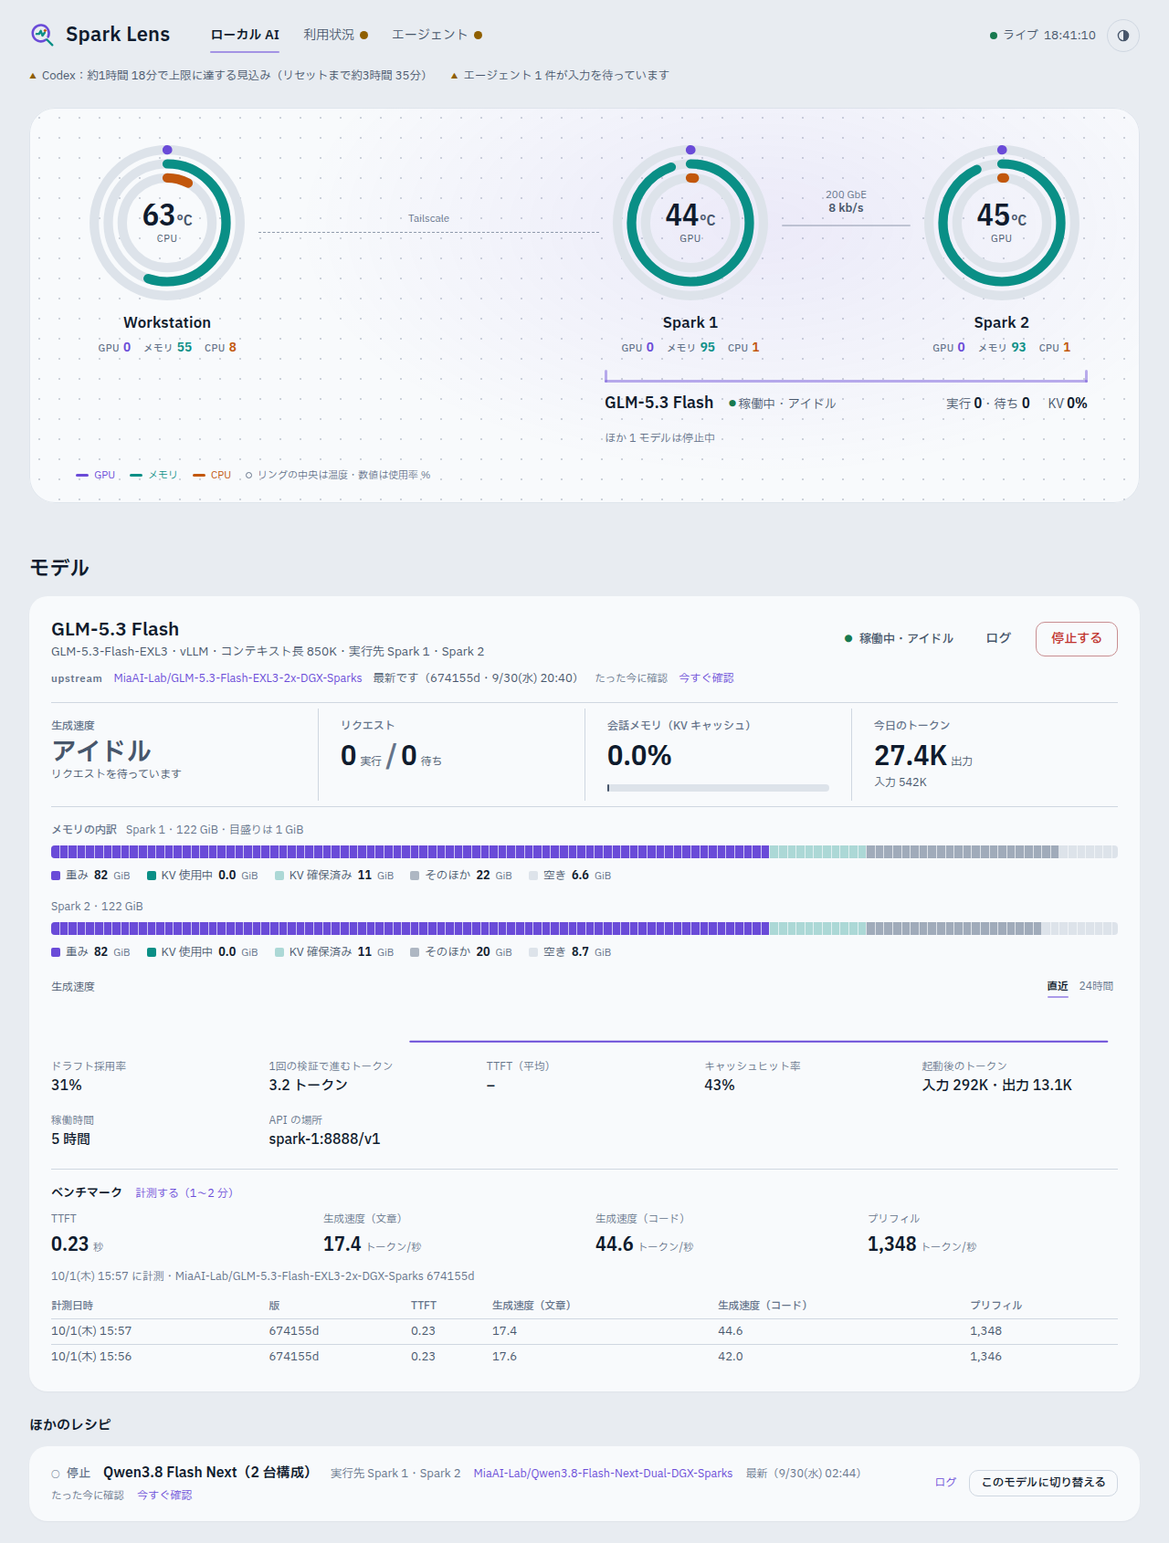
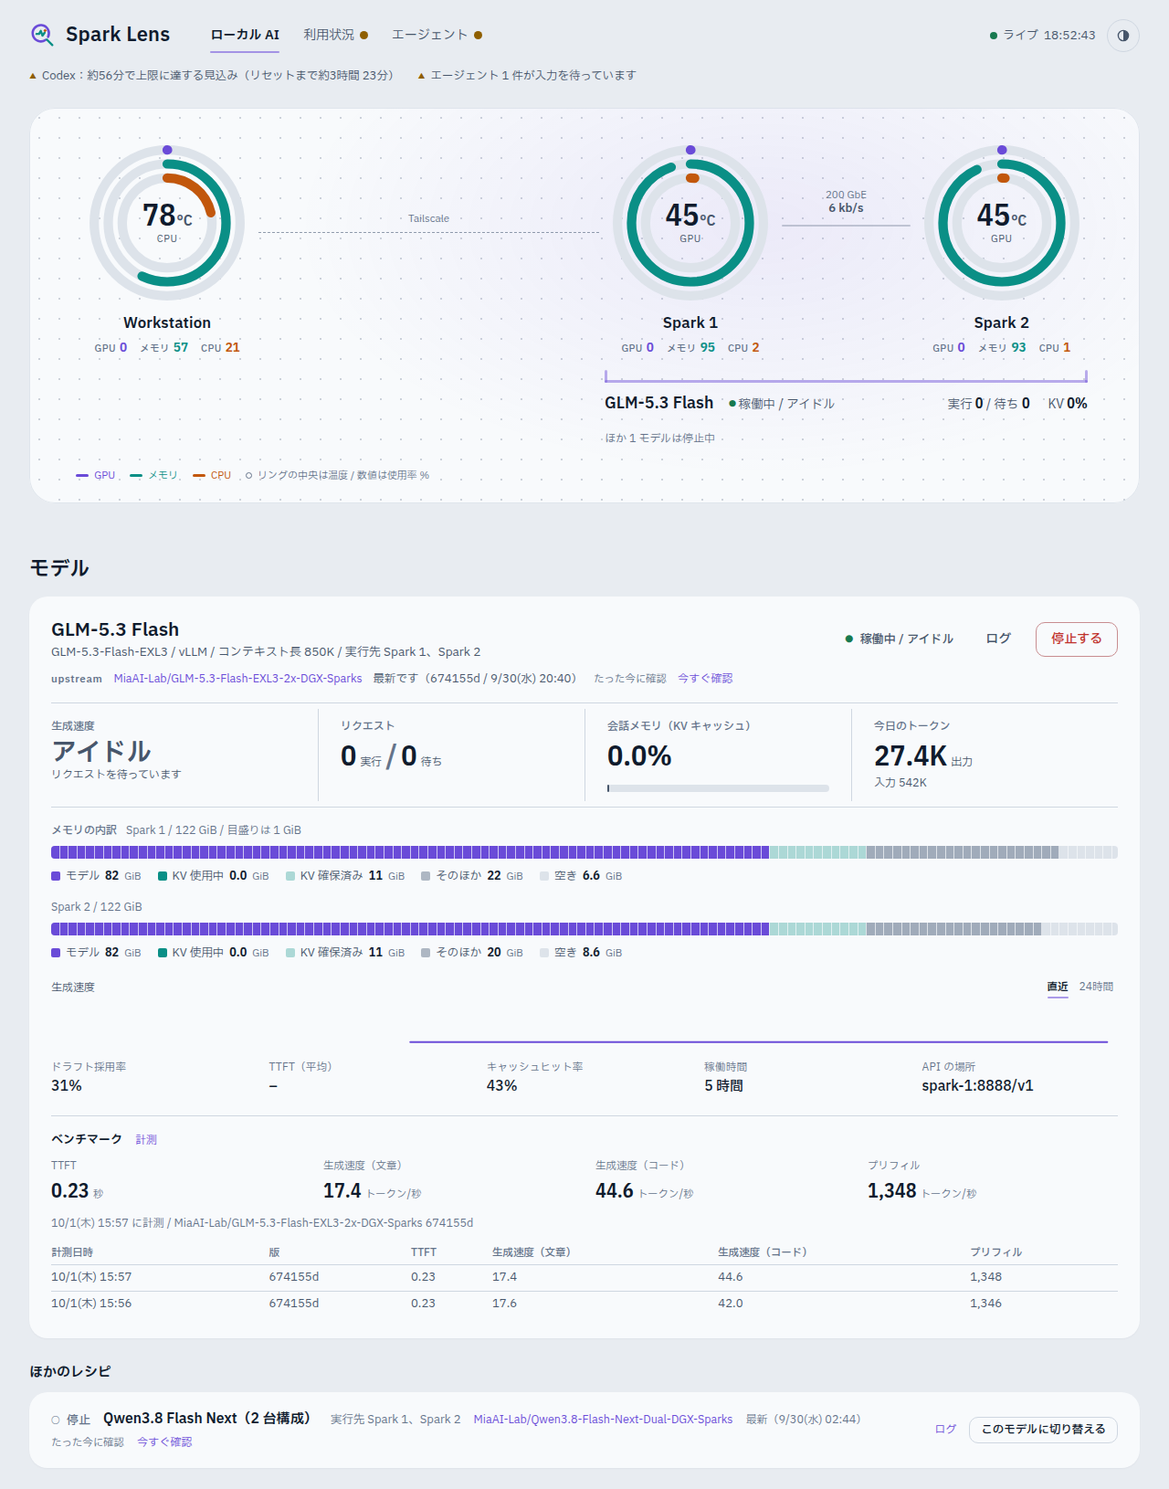
Unified wording: slashes between facts, online/offline machines, no exit codes; benchmark stop; slimmer model facts

diff --git a/server/bench.ts b/server/bench.ts
@@ -120,9 +120,11 @@ export async function runBench(
   model: string,
   apiKey: string | undefined,
   onProgress: (label: string, done: number, total: number) => void,
+  stop?: AbortSignal,
 ): Promise<{ cases: BenchCase[]; error: string | null }> {
   const cases: BenchCase[] = [];
   for (const [i, c] of CASES.entries()) {
+    if (stop?.aborted) return { cases, error: "中止しました" };
     onProgress(c.label, i, CASES.length);
     const startedAt = performance.now();
     let res: Response;
@@ -141,17 +143,17 @@ export async function runBench(
           // Measure the answer, not the thinking; servers ignore kwargs their template lacks.
           chat_template_kwargs: { enable_thinking: false },
         }),
-        signal: AbortSignal.timeout(300_000),
+        signal: stop ? AbortSignal.any([stop, AbortSignal.timeout(300_000)]) : AbortSignal.timeout(300_000),
       });
     } catch {
-      return { cases, error: `${c.label}: 接続できませんでした` };
+      return { cases, error: stop?.aborted ? "中止しました" : `${c.label}: 接続できませんでした` };
     }
     if (!res.ok || !res.body) return { cases, error: `${c.label}: HTTP ${res.status}` };
     // The connection can still drop, or the timeout fire, while the answer streams.
     try {
       cases.push(summarise(c, await timeStream(res.body, startedAt)));
     } catch {
-      return { cases, error: `${c.label}: 応答の途中で接続が切れました` };
+      return { cases, error: stop?.aborted ? "中止しました" : `${c.label}: 応答の途中で接続が切れました` };
     }
   }
   onProgress("完了", CASES.length, CASES.length);
@@ -165,6 +167,7 @@ export function newRun(llmId: string, model: string, commit: string | null, repo
 /** One benchmark at a time per model; results go to the store. */
 export class BenchRunner {
   private readonly state = new Map<string, { running: boolean; stage: string | null; done: number; total: number }>();
+  private readonly controllers = new Map<string, AbortController>();
   private readonly store: { benchRuns(): BenchRun[]; addBenchRun(run: BenchRun): void };
 
   /** Replaceable for tests. */
@@ -193,19 +196,37 @@ export class BenchRunner {
   ): { ok: boolean; message: string } {
     if (this.state.get(llmId)?.running) return { ok: false, message: "ベンチマークを実行中です" };
     const run = newRun(llmId, target.model, target.commit, target.repo);
+    const controller = new AbortController();
+    this.controllers.set(llmId, controller);
     this.state.set(llmId, { running: true, stage: "準備しています", done: 0, total: CASES.length });
     changed();
-    void (this.runImpl ?? runBench)(target.baseUrl, target.model, target.apiKey, (stage, done, total) => {
-      this.state.set(llmId, { running: true, stage, done, total });
-      changed();
-    })
+    void (this.runImpl ?? runBench)(
+      target.baseUrl,
+      target.model,
+      target.apiKey,
+      (stage, done, total) => {
+        this.state.set(llmId, { running: true, stage, done, total });
+        changed();
+      },
+      controller.signal,
+    )
       .catch((err: unknown) => ({ cases: [] as BenchCase[], error: `計測に失敗しました（${err instanceof Error ? err.message : String(err)}）` }))
-      .then(({ cases, error }) => this.store.addBenchRun({ ...run, cases, error }))
+      // A run the owner stopped is not a measurement; keep it out of the history.
+      .then(({ cases, error }) => (controller.signal.aborted ? undefined : this.store.addBenchRun({ ...run, cases, error })))
       .catch(() => {})
       .finally(() => {
+        this.controllers.delete(llmId);
         this.state.set(llmId, { running: false, stage: null, done: 0, total: CASES.length });
         changed();
       });
-    return { ok: true, message: "ベンチマークを開始しました（1〜2 分）" };
+    return { ok: true, message: "ベンチマークを開始しました" };
+  }
+
+  /** Abandon a running benchmark; the request in flight is cancelled. */
+  stop(llmId: string): { ok: boolean; message: string } {
+    const controller = this.controllers.get(llmId);
+    if (!controller) return { ok: false, message: "実行中のベンチマークはありません" };
+    controller.abort();
+    return { ok: true, message: "ベンチマークを中止しました" };
   }
 }

diff --git a/web/src/components/BenchPanel.tsx b/web/src/components/BenchPanel.tsx
@@ -38,9 +38,9 @@ export function BenchPanel({ llmId, state }: { llmId: string; state: BenchState 
   const previousVersion =
     latest?.commit ? runs.find((r) => !r.error && r.commit !== null && r.commit !== latest.commit) : undefined;
 
-  const start = async () => {
+  const send = async (path: "bench" | "bench/stop") => {
     try {
-      const res = await fetch(`/api/llms/${llmId}/bench`, { method: "POST", headers: { "X-Spark-Lens": "1" } });
+      const res = await fetch(`/api/llms/${llmId}/${path}`, { method: "POST", headers: { "X-Spark-Lens": "1" } });
       setNotice(((await res.json()) as { message?: string }).message ?? null);
     } catch {
       setNotice("サーバーに接続できませんでした");
@@ -52,12 +52,17 @@ export function BenchPanel({ llmId, state }: { llmId: string; state: BenchState 
       <div className="bench__head">
         <h4>ベンチマーク</h4>
         {state?.running ? (
-          <span className="bench__running">
-            {state.stage}を計測中（{Math.min(state.done + 1, state.total)}/{state.total}）
-          </span>
+          <>
+            <span className="bench__running">
+              {state.stage}を計測中（{Math.min(state.done + 1, state.total)}/{state.total}）
+            </span>
+            <button type="button" className="link-button" onClick={() => void send("bench/stop")}>
+              停止
+            </button>
+          </>
         ) : (
-          <button type="button" className="link-button" onClick={() => void start()}>
-            計測する（1〜2 分）
+          <button type="button" className="link-button" onClick={() => void send("bench")}>
+            計測
           </button>
         )}
       </div>
@@ -81,10 +86,10 @@ export function BenchPanel({ llmId, state }: { llmId: string; state: BenchState 
             })}
           </dl>
           <p className="bench__meta">
-            {shortDate(latest.at)} に計測・{latest.repo ? `${latest.repo} ` : ""}
+            {shortDate(latest.at)} に計測 / {latest.repo ? `${latest.repo} ` : ""}
             {latest.commit ?? "版不明"}
-            {previousVersion ? `・比較は前の版 ${previousVersion.commit ?? ""}（${shortDate(previousVersion.at)}）` : ""}
-            {latest.error ? `・${latest.error}` : ""}
+            {previousVersion ? ` / 比較は前の版 ${previousVersion.commit ?? ""}（${shortDate(previousVersion.at)}）` : ""}
+            {latest.error ? ` / ${latest.error}` : ""}
           </p>
           {runs.length > 1 && (
             <table className="bench__history">

diff --git a/server/recipes.ts b/server/recipes.ts
@@ -328,7 +328,7 @@ export class RecipeManager {
         Object.assign(a, {
           finishedAt: Date.now(),
           ok: code === 0,
-          message: code === 0 ? "起動処理が完了しました" : `起動に失敗しました（終了コード ${code ?? "不明"}）。起動ログを確認してください`,
+          message: code === 0 ? "起動処理が完了しました" : "起動に失敗しました。起動ログを確認してください",
         });
       }),
     );
@@ -388,12 +388,12 @@ export class RecipeManager {
     if (!ok && current && current.finishedAt === null && current.kind === "start") {
       // The launcher may still be running; keep following it rather than freeing its machines.
       this.actions.set(id, current);
-      return { ok: false, message: res.timedOut ? "停止処理がタイムアウトしました" : `停止に失敗しました（終了コード ${res.code}）` };
+      return { ok: false, message: res.timedOut ? "停止処理がタイムアウトしました" : "停止に失敗しました。起動ログを確認してください" };
     }
     Object.assign(action, {
       finishedAt: Date.now(),
       ok,
-      message: ok ? "停止しました" : res.timedOut ? "停止処理がタイムアウトしました" : `停止に失敗しました（終了コード ${res.code}）`,
+      message: ok ? "停止しました" : res.timedOut ? "停止処理がタイムアウトしました" : "停止に失敗しました。起動ログを確認してください",
     });
     return { ok, message: action.message! };
   }
@@ -524,6 +524,6 @@ export class RecipeManager {
     const res = await this.exec(this.hosts.get(r.host)!, script, 20_000);
     if (res.timedOut) return { ok: false, text: "ログの取得がタイムアウトしました" };
     const text = cleanLog(res.stdout.slice(-MAX_LOG_BYTES));
-    return { ok: res.code === 0, text: text || (res.code === 0 ? "（出力なし）" : `取得に失敗しました（終了コード ${res.code}）`) };
+    return { ok: res.code === 0, text: text || (res.code === 0 ? "（出力なし）" : "ログを取得できませんでした") };
   }
 }

diff --git a/web/src/components/LlmPanel.tsx b/web/src/components/LlmPanel.tsx
@@ -42,7 +42,7 @@ export function LlmPanel({
   const running = (llm.requestsRunning ?? 0) > 0;
   const kv = llm.kvCacheUsage === null ? null : llm.kvCacheUsage * 100;
   const spec = llm.spec;
-  const where = [...new Set(recipes.flatMap((r) => r.hostLabels ?? [r.hostLabel]))].join("・");
+  const where = [...new Set(recipes.flatMap((r) => r.hostLabels ?? [r.hostLabel]))].join("、");
   const sub = [
     llm.models[0],
     llm.engine,
@@ -55,7 +55,7 @@ export function LlmPanel({
       <header className="model__head">
         <div className="model__title">
           <h3 className="card__title">{llm.label}</h3>
-          <p className="card__sub">{sub.length > 0 ? sub.join("・") : "モデル名は起動後に表示されます"}</p>
+          <p className="card__sub">{sub.length > 0 ? sub.join(" / ") : "モデル名は起動後に表示されます"}</p>
         </div>
         <StatusPill tone={st.tone}>{st.text}</StatusPill>
         {recipes.map((r) => (
@@ -142,14 +142,9 @@ export function LlmPanel({
 
           <dl className="factline">
             {spec && <Fact label="ドラフト採用率" value={spec.acceptRate === null ? "–" : pct(spec.acceptRate * 100)} />}
-            {spec && <Fact label="1回の検証で進むトークン" value={spec.meanLength === null ? "–" : `${spec.meanLength.toFixed(1)} トークン`} />}
             {spec && running && <Fact label="ドラフト / 採用" value={`${rate(spec.draftTokensPerSec)} / ${rate(spec.acceptedTokensPerSec)} トークン/秒`} />}
             <Fact label="TTFT（平均）" value={llm.ttftSec === null ? "–" : `${llm.ttftSec.toFixed(2)} 秒`} />
             <Fact label="キャッシュヒット率" value={llm.prefixCacheHitRate === null ? "–" : pct(llm.prefixCacheHitRate * 100)} />
-            <Fact
-              label="起動後のトークン"
-              value={llm.tokensTotal ? `入力 ${count(llm.tokensTotal.prompt)}・出力 ${count(llm.tokensTotal.generation)}` : "–"}
-            />
             {/* Docker knows when the model started; the dashboard only knows since it last restarted. */}
             <Fact
               label="稼働時間"

diff --git a/server/http.ts b/server/http.ts
@@ -66,6 +66,8 @@ export interface HttpOptions {
   recipes?: RecipeActions;
   /** Start a benchmark of one local model. */
   bench?: (llmId: string) => Promise<{ ok: boolean; message: string }>;
+  /** Stop a running benchmark. */
+  benchStop?: (llmId: string) => { ok: boolean; message: string };
   /** Minute averages for one series over the last day. */
   history?: (key: string) => { t: number; v: number }[];
   /** Called after a state-changing request so viewers see it at once. */
@@ -130,13 +132,17 @@ export class HttpServer {
       void this.recipe(req, res, recipe[1]!, recipe[2] as RecipeOp);
       return;
     }
-    const bench = /^\/api\/llms\/([a-z0-9][a-z0-9-]*)\/bench$/.exec(path);
+    const bench = /^\/api\/llms\/([a-z0-9][a-z0-9-]*)\/bench(\/stop)?$/.exec(path);
     if (bench) {
       const json = (status: number, body: unknown) =>
         void res.writeHead(status, { "Content-Type": "application/json; charset=utf-8", "Cache-Control": "no-store" }).end(JSON.stringify(body));
       if (req.method !== "POST") return void res.writeHead(405, { Allow: "POST" }).end();
       if (req.headers[ACTION_HEADER] !== "1") return json(403, { ok: false, message: "この操作はダッシュボードの画面から行ってください" });
       if (!this.opts.bench) return json(404, { ok: false, message: "ベンチマークは使えません" });
+      if (bench[2]) {
+        const stopped = this.opts.benchStop?.(bench[1]!) ?? { ok: false, message: "ベンチマークは使えません" };
+        return json(stopped.ok ? 200 : 409, stopped);
+      }
       const run = this.opts.bench;
       void run(bench[1]!).then(
         (result) => json(result.ok ? 202 : 409, result),

diff --git a/web/src/components/MachineCard.tsx b/web/src/components/MachineCard.tsx
@@ -69,7 +69,7 @@ export function MachineCard({ host, now }: { host: HostSnapshot; now: number }) 
           <h3 className="card__title">{host.label}</h3>
           <p className="card__sub">
             {KIND_LABEL[host.kind]}
-            {host.hostname && host.hostname !== host.label ? `・${host.hostname}` : ""}
+            {host.hostname && host.hostname !== host.label ? ` / ${host.hostname}` : ""}
           </p>
         </div>
         <StatusPill tone={st.tone}>{st.text}</StatusPill>
@@ -187,7 +187,7 @@ export function MachineCard({ host, now }: { host: HostSnapshot; now: number }) 
                 <span>{c.name}</span>
                 {/* Running or not is what matters here; the details stay in the tooltip. */}
                 <span title={dockerStatus(c.status)}>
-                  {c.state === "running" ? (/unhealthy/i.test(c.status) ? "稼働中（異常）" : "稼働中") : "停止"}
+                  {c.state === "running" ? (/unhealthy/i.test(c.status) ? "稼働中（異常）" : "稼働中") : "停止中"}
                 </span>
               </li>
             ))}
@@ -196,7 +196,10 @@ export function MachineCard({ host, now }: { host: HostSnapshot; now: number }) 
       )}
 
       <p className="machine__foot">
-        {[host.os, host.cpuModel, host.latencyMs !== null ? `監視の応答 ${host.latencyMs} ms` : null].filter(Boolean).join("・")}
+        {host.os && <span>{host.os}</span>}
+        {host.cpuModel && <span>{host.cpuModel}</span>}
+        {/* Round trip of the dashboard's last check of this machine. */}
+        {host.latencyMs !== null && <span>遅延 {host.latencyMs} ms</span>}
       </p>
     </article>
   );

diff --git a/web/src/status.ts b/web/src/status.ts
@@ -12,19 +12,19 @@ export interface Status {
 const LIMITS = { gpu: { warn: 80, critical: 90 }, cpu: { warn: 90, critical: 98 } };
 
 export function hostStatus(h: HostSnapshot): Status {
-  if (!h.online) return { tone: "critical", text: "応答なし" };
+  if (!h.online) return { tone: "critical", text: "オフライン" };
   const gpu = h.gpu?.tempC ?? 0;
   const cpu = h.cpuTempC ?? 0;
   if (gpu >= LIMITS.gpu.critical || cpu >= LIMITS.cpu.critical) return { tone: "critical", text: "高温" };
   if (gpu >= LIMITS.gpu.warn || cpu >= LIMITS.cpu.warn) return { tone: "warn", text: "温度高め" };
-  return { tone: "good", text: "稼働中" };
+  return { tone: "good", text: "オンライン" };
 }
 
-/** Process state and load, in the words used everywhere: 停止中 / 起動中 / 稼働中・アイドル / 稼働中・推論中. */
+/** Process state and load, in the words used everywhere: 停止中 / 起動中 / 稼働中 / アイドル, 稼働中 / 推論中. */
 export function llmStatus(l: LlmSnapshot): Status {
   if (l.state === "down") return { tone: "quiet", text: "停止中" };
   if (l.state === "starting") return { tone: "warn", text: "起動中" };
-  return (l.requestsRunning ?? 0) > 0 ? { tone: "busy", text: "稼働中・推論中" } : { tone: "good", text: "稼働中・アイドル" };
+  return (l.requestsRunning ?? 0) > 0 ? { tone: "busy", text: "稼働中 / 推論中" } : { tone: "good", text: "稼働中 / アイドル" };
 }
 
 export interface Alert {

diff --git a/web/src/components/LabMap.tsx b/web/src/components/LabMap.tsx
@@ -115,13 +115,13 @@ function Band({ llm, now, progress }: { llm: LlmSnapshot; now: number; progress:
         {kind === "idle" && llm.lastActiveAt !== null && <span>最後の推論 {ago(llm.lastActiveAt, now)}</span>}
         {kind === "starting" && progress && (
           <span>
-            <strong>{progress.pct}%</strong>・{progress.stage}
+            <strong>{progress.pct}%</strong> / {progress.stage}
           </span>
         )}
         {(kind === "busy" || kind === "idle") && (
           <>
             <span>
-              実行 <strong>{llm.requestsRunning ?? "–"}</strong>・待ち <strong>{llm.requestsWaiting ?? "–"}</strong>
+              実行 <strong>{llm.requestsRunning ?? "–"}</strong> / 待ち <strong>{llm.requestsWaiting ?? "–"}</strong>
             </span>
             <span>
               KV <strong>{llm.kvCacheUsage === null ? "–" : pct(llm.kvCacheUsage * 100)}</strong>
@@ -189,7 +189,7 @@ export function LabMap({ snapshot, now }: { snapshot: Snapshot; now: number }) {
         <span className="legend-key legend-key--1">GPU</span>
         <span className="legend-key legend-key--2">メモリ</span>
         <span className="legend-key legend-key--3">CPU</span>
-        <span className="legend-key legend-key--center">リングの中央は温度・数値は使用率 %</span>
+        <span className="legend-key legend-key--center">リングの中央は温度 / 数値は使用率 %</span>
       </div>
     </section>
   );

diff --git a/web/src/components/ModelUsage.tsx b/web/src/components/ModelUsage.tsx
@@ -10,7 +10,7 @@ function breakdown(r: Row): string {
   if (r.input === null || r.output === null) return "内訳なし";
   const parts = [`入力 ${count(r.input)}`, `出力 ${count(r.output)}`];
   if (r.cached) parts.push(`キャッシュ読み取り ${count(r.cached)}`);
-  return parts.join("・");
+  return parts.join(" / ");
 }
 
 function usd(n: number): string {
@@ -48,7 +48,7 @@ export function ModelUsage({ usage }: { usage: UsageSnapshot }) {
               {local > 0 ? `（うちローカル ${count(local)}）` : ""}
               {priced && (
                 <>
-                  {" ・ "}API 換算 <strong className="usage__usd">{usd(sum(rows))}</strong>
+                  {" / "}API 換算 <strong className="usage__usd">{usd(sum(rows))}</strong>
                   {local > 0 ? `（うちローカル ${usd(sum(rows.filter((r) => r.local)))}）` : ""}
                 </>
               )}
@@ -92,7 +92,7 @@ export function ModelUsage({ usage }: { usage: UsageSnapshot }) {
         </div>
         <div className="usage__note">
           <h4>
-            金額について<span>models.dev{fetched ? `・${fetched}取得` : "・未取得"}</span>
+            金額について<span>models.dev{fetched ? ` / ${fetched}取得` : " / 未取得"}</span>
           </h4>
           <ul>
             <li>同じトークン数を API 料金で使った場合の目安です。</li>

diff --git a/web/src/components/AgentList.tsx b/web/src/components/AgentList.tsx
@@ -35,8 +35,8 @@ function Row({ a, now, multiHost }: { a: AgentSnapshot; now: number; multiHost: 
       <div className="agent__meta">
         <span title={a.cwd ?? undefined}>{a.cwd ?? ""}</span>
         <span>
-          {multiHost ? `${a.hostLabel}・` : ""}
-          {a.detail ? `${a.detail}・` : ""}
+          {multiHost ? `${a.hostLabel} / ` : ""}
+          {a.detail ? `${a.detail} / ` : ""}
           {activity ? ago(activity, now) : ""}
         </span>
       </div>
@@ -56,7 +56,7 @@ export function AgentList({ agents, now, multiHost }: { agents: AgentSnapshot[];
       {current.length === 0 ? (
         <div className="card empty">
           <p>いま動いているエージェントはありません。</p>
-          <p className="muted">Claude Code・Codex・OpenCode を起動すると、ここに作業状況が並びます。</p>
+          <p className="muted">Claude Code、Codex、OpenCode を起動すると、ここに作業状況が並びます。</p>
         </div>
       ) : (
         <ul className="card agents">

diff --git a/server/test/bench.test.ts b/server/test/bench.test.ts
@@ -77,3 +77,20 @@ test("a stream that breaks mid-answer is recorded as a failure, not an unhandled
   assert.equal(runs.length, 1);
   assert.match((runs[0] as { error: string }).error, /boom/);
 });
+
+test("a stopped benchmark ends promptly and is not kept", async () => {
+  const { BenchRunner } = await import("../bench.ts");
+  const runs: unknown[] = [];
+  const runner = new BenchRunner({ benchRuns: () => [], addBenchRun: (r) => runs.push(r) }, (_u, _m, _k, _p, stop) =>
+    new Promise((resolve) => stop?.addEventListener("abort", () => resolve({ cases: [], error: "中止しました" }))),
+  );
+  let done!: () => void;
+  const finished = new Promise<void>((r) => (done = r));
+  runner.start("m", { baseUrl: "http://x", model: "m", commit: null, repo: null }, () => {
+    if (!runner.snapshot(["m"]).m?.running) done();
+  });
+  assert.equal(runner.stop("m").ok, true);
+  await finished;
+  assert.equal(runs.length, 0);
+  assert.equal(runner.stop("m").ok, false);
+});

diff --git a/web/src/components/MemoryMap.tsx b/web/src/components/MemoryMap.tsx
@@ -37,7 +37,7 @@ export function MemoryMap({
   const kvUsed = kv * Math.min(1, Math.max(0, kvUsage ?? 0));
   const parts: Part[] = known
     ? [
-        { key: "weights", label: "重み", gib: weights },
+        { key: "weights", label: "モデル", gib: weights },
         { key: "kv-used", label: "KV 使用中", gib: kvUsed },
         { key: "kv-free", label: "KV 確保済み", gib: kv - kvUsed },
         { key: "other", label: "そのほか", gib: Math.max(0, used - weights - kv) },
@@ -53,7 +53,7 @@ export function MemoryMap({
       <figcaption className="memband__title">
         {continued ? null : "メモリの内訳"}
         <span className={continued ? "memband__more" : undefined}>
-          {host.label}・{total.toFixed(0)} GiB{continued ? "" : "・目盛りは 1 GiB"}
+          {host.label} / {total.toFixed(0)} GiB{continued ? "" : " / 目盛りは 1 GiB"}
         </span>
       </figcaption>
       <div
